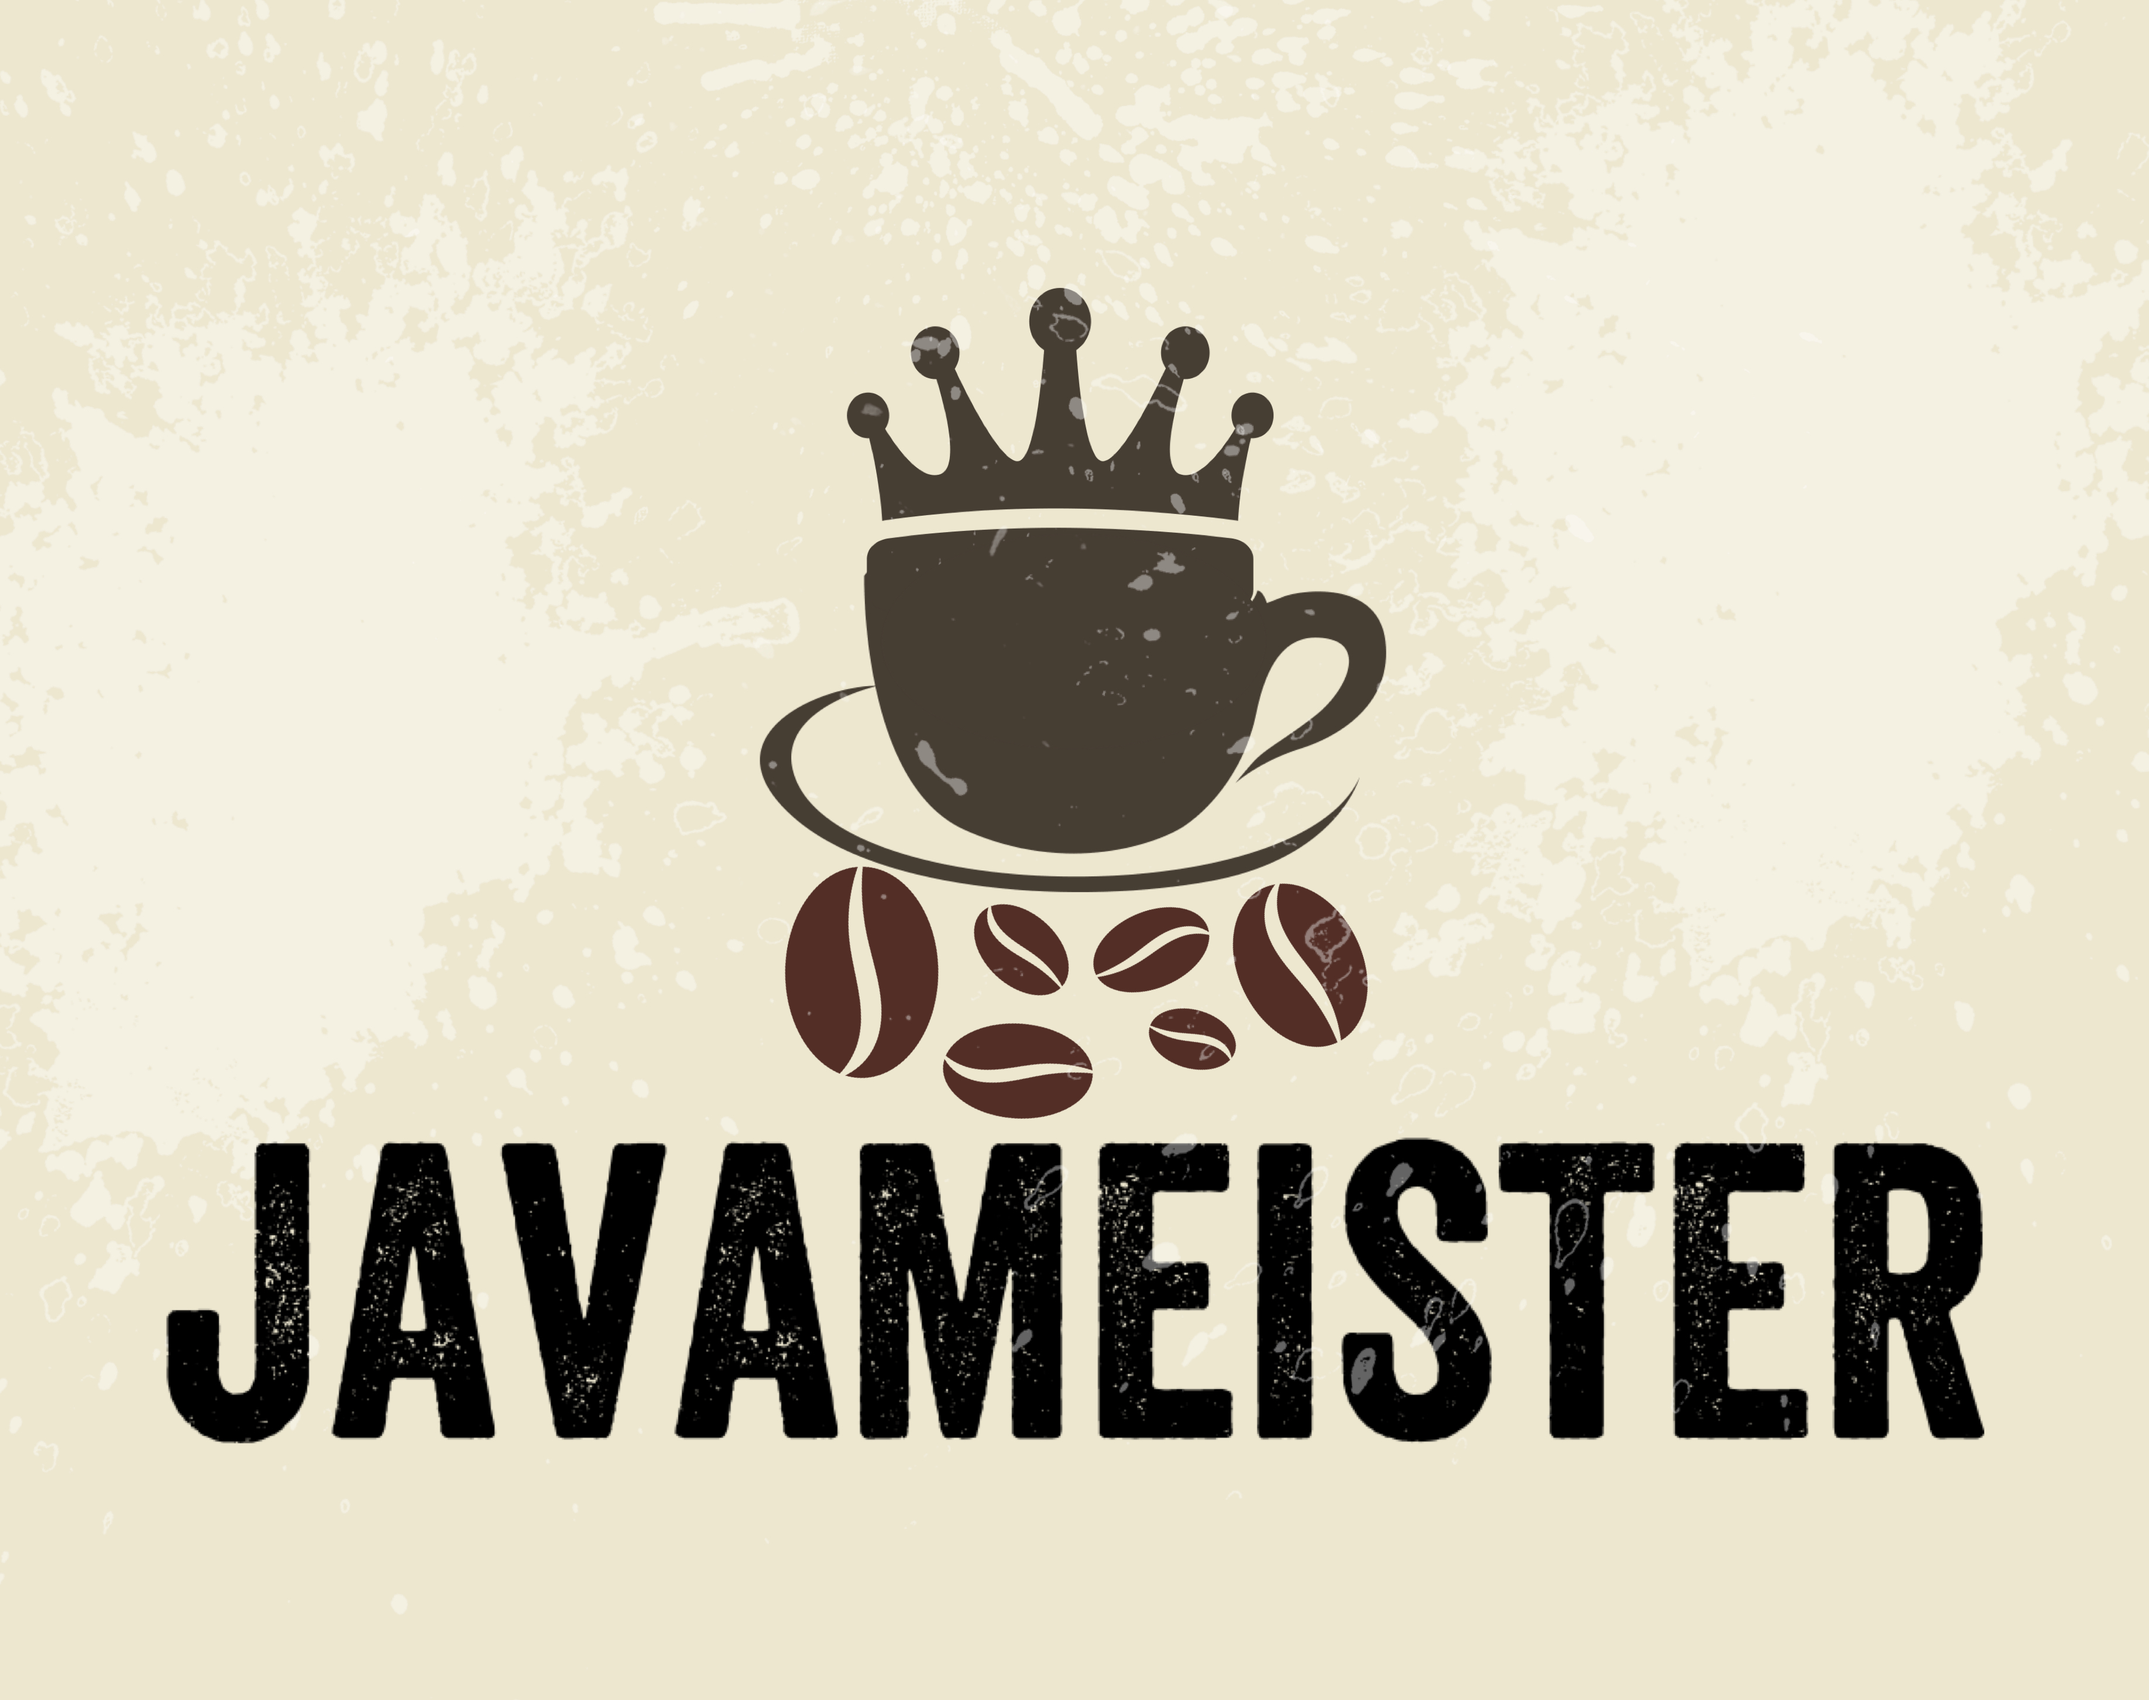
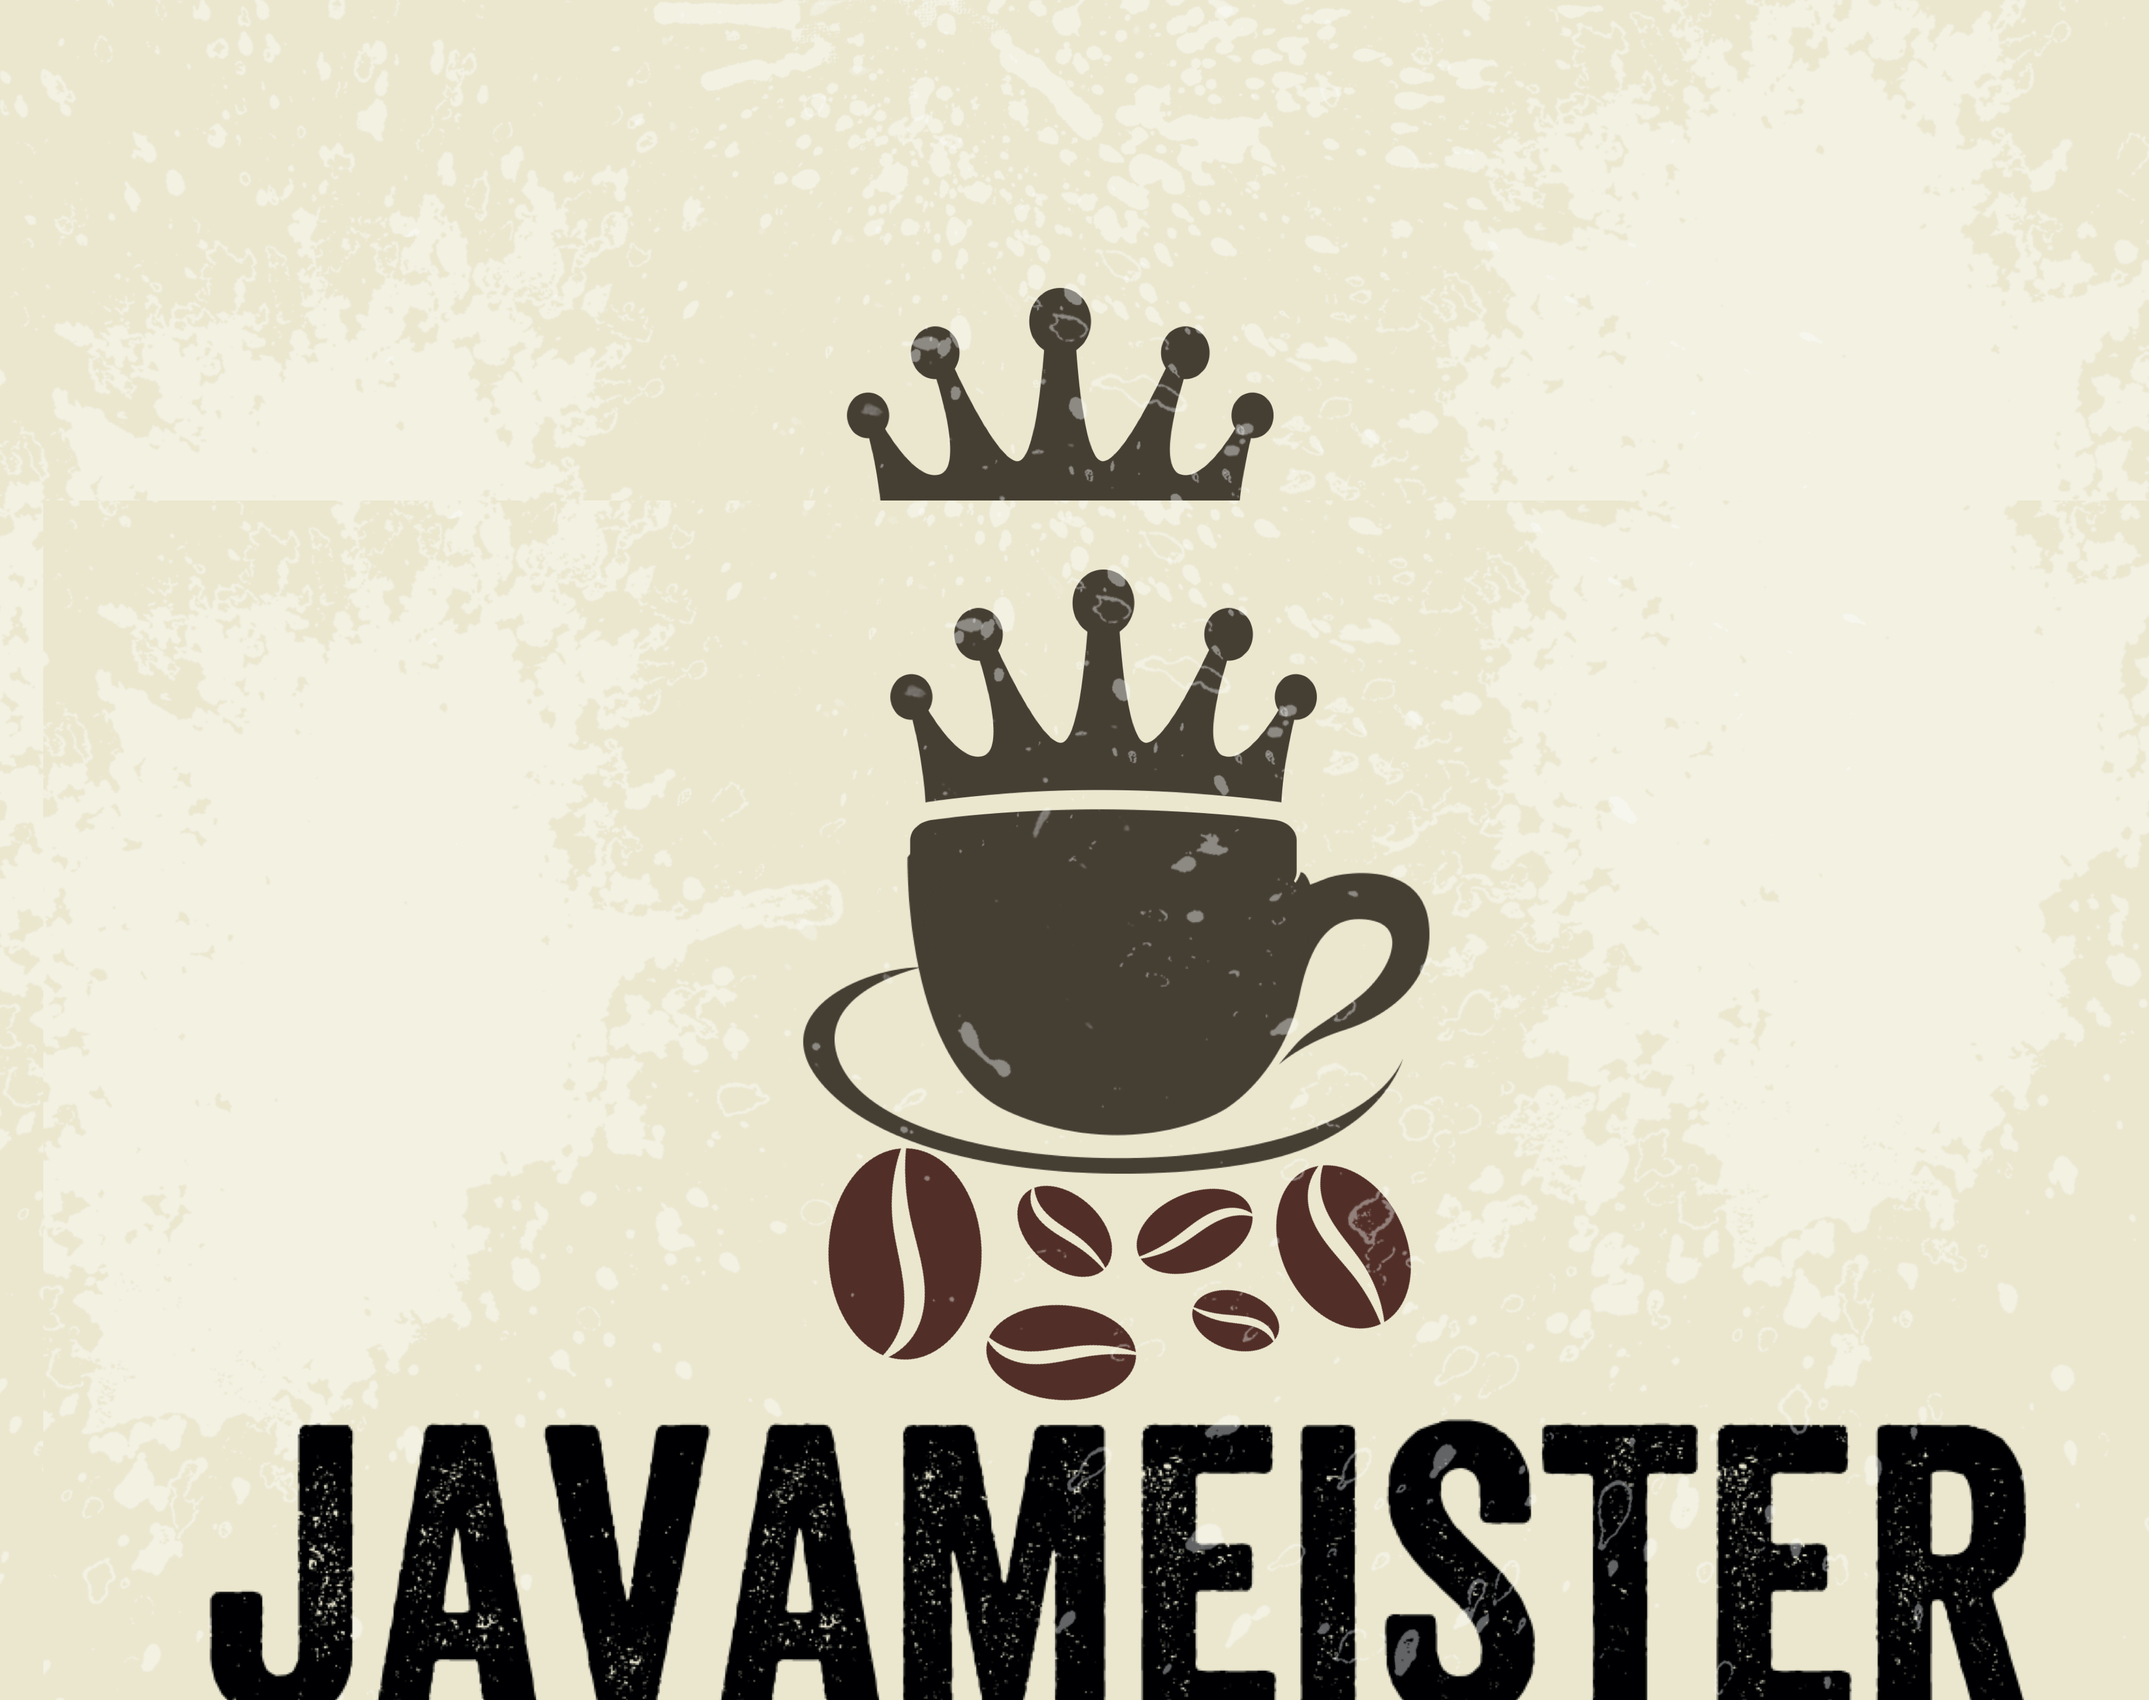
update

Changed region(s): [[0.0621, 0.2789, 0.9624, 1.0]]

diff --git a/week_5/hackathon/signup.html b/week_5/hackathon/signup.html
@@ -1,3 +1,10 @@
+
+
+
+
+<!-- SIGN UP PAGE IS WHERE CUSTOMERS NEED TO LOGIN OR SIGNUP
+ -->
+
 <!DOCTYPE html>
 <html>
 <head>
@@ -5,198 +12,18 @@
 	<link rel="stylesheet" href="./javam.css">
 </head>
 <body>
-<div class="header">
-  <h1></h1>
-  <p></p>
+	<div id="logo-container"><a href="javameisterfinal.jpg.png"><img src="javameisterfinal.jpg.png" alt="" /></a>
 </div>
 
 
 <!--	header menu -->
-<div class="topnav">
-  <a class="active" href="./javameister.html">Home</a>
-  <a href="#signup">Signup</a>
-  <a href="#news">News</a>
-  <a href="#store">Store</a>
-  <a href="myjava">
-<img border="0" alt="" src="shopping-basket.png" width="46" height="38">
-<span style="font-size: 40px">My Java</span>
-
-</div>
-
-<!-- Signup form code -->
-
-
-<style>
-body {font-family: Impact, fantasy; font-size: 35px; }
-* {box-sizing: border-box;}
-
-/* Full-width input fields */
-input[type=text], input[type=password] {
-  width: 100%;
-  padding: 15px;
-  margin: 5px 0 22px 0;
-  display: inline-block;
-  border: none;
-  background: #f1f1f1;
-}
-
-/* Add a background color when the inputs get focus */
-input[type=text]:focus, input[type=password]:focus {
-  background-color: #ddd;
-  outline: none;
-}
-
-/* Set a style for all buttons */
-button {
-   background-color: #008CBA;
-  border: none;
-  color: white;
-  padding: 15px 32px;
-  margin: 25px;
-  text-align: center;
-  text-decoration: none;
-  display: inline-block;
-  font-size: 16px;
-  cursor: pointer;
-  background-color: grey
-  border-radius 15px;
-  box-shadow: 0 9px #333;
-  border-radius: 17px;
-}
-
-
-
-button:hover {
-  opacity:1;
-}
-
-/* Extra styles for the cancel button */
-.cancelbtn {
-  padding: 14px 20px;
-  background-color: #f44336;
-}
-
-/* Float cancel and signup buttons and add an equal width */
-.cancelbtn, .signupbtn {
-  float: left;
-  width: 50%;
-}
-
-/* Add padding to container elements */
-.container {
-  padding: 16px;
-}
-
-/* The Modal (background) */
-.modal {
-  display: none; /* Hidden by default */
-  position: fixed; /* Stay in place */
-  z-index: 1; /* Sit on top */
-  left: 0;
-  top: 0;
-  width: 100%; /* Full width */
-  height: 100%; /* Full height */
-  overflow: auto; /* Enable scroll if needed */
-  background-color: #474e5d;
-  padding-top: 50px;
-}
-
-/* Modal Content/Box */
-.modal-content {
-  background-color: #fefefe;
-  margin: 5% auto 15% auto; /* 5% from the top, 15% from the bottom and centered */
-  border: 1px solid #888;
-  width: 80%; /* Could be more or less, depending on screen size */
-}
-
-/* Style the horizontal ruler */
-hr {
-  border: 1px solid #f1f1f1;
-  margin-bottom: 25px;
-}
- 
-/* The Close Button (x) */
-.close {
-  position: absolute;
-  right: 35px;
-  top: 15px;
-  font-size: 40px;
-  font-weight: bold;
-  color: #f1f1f1;
-}
-
-.close:hover,
-.close:focus {
-  color: #f44336;
-  cursor: pointer;
-}
-
-/* Clear floats */
-.clearfix::after {
-  content: "";
-  clear: both;
-  display: table;
-}
-
-/* Change styles for cancel button and signup button on extra small screens */
-@media screen and (max-width: 300px) {
-  .cancelbtn, .signupbtn {
-     width: 100%;
-  }
-}
-</style>
-<body>
-
-<h2>Modal Signup Form</h2>
-
-<button onclick="document.getElementById('id01').style.display='block'" style="width:auto;">Sign Up</button>
-
-<div id="id01" class="modal">
-  <span onclick="document.getElementById('id01').style.display='none'" class="close" title="Close Modal">&times;</span>
-  <form class="modal-content" action="/action_page.php">
-    <div class="container">
-      <h1>Sign Up</h1>
-      <p>Please fill in this form to create an account.</p>
-      <hr>
-      <label for="email"><b>Email</b></label>
-      <input type="text" placeholder="Enter Email" name="email" required>
-
-      <label for="psw"><b>Password</b></label>
-      <input type="password" placeholder="Enter Password" name="psw" required>
-
-      <label for="psw-repeat"><b>Repeat Password</b></label>
-      <input type="password" placeholder="Repeat Password" name="psw-repeat" required>
-      
-      <label>
-        <input type="checkbox" checked="checked" name="remember" style="margin-bottom:15px"> Remember me
-      </label>
-
-      <p>By creating an account you agree to our <a href="#" style="color:dodgerblue">Terms & Privacy</a>.</p>
-
-      <div class="clearfix">
-        <button type="button" onclick="document.getElementById('id01').style.display='none'" class="cancelbtn">Cancel</button>
-        <button type="submit" class="signupbtn">Sign Up</button>
-      </div>
-    </div>
-  </form>
-</div>
-
-<script>
-// Get the modal
-var modal = document.getElementById('id01');
-
-// When the user clicks anywhere outside of the modal, close it
-window.onclick = function(event) {
-  if (event.target == modal) {
-    modal.style.display = "none";
-  }
-}
-</script>
-
+	<div class="topnav">
+	  <a href="./javameister.html">Home</a>
+	  <a class="active" href="#signup">Signup</a>
+	  <a href="#news">News</a>
+	  <a href="#store">Store</a>
+	  <a href="myjava.html">My Java</a>
+	</div>
 </body>
 </html>
 
-
-
-</body>
-</html>

diff --git a/week_5/hackathon/myjava.html b/week_5/hackathon/myjava.html
@@ -1,0 +1,50 @@
+
+
+
+<!-- MY JAVA PAGE IS WHERE THE PERSONALITY QUIZ IS LOCATED THAT MATCHES CUSTOMERS 
+WITH THEIR IDEAL COFFEE -->
+
+<!DOCTYPE html>
+<html>
+<head>
+	<title>signup page</title>
+	<link rel="stylesheet" href="./javam.css">
+</head>
+<body>
+	<div id="logo-container"><a href="javameisterfinal.jpg.png"><img src="javameisterfinal.jpg.png" alt="" /></a>
+</div>
+
+
+<!--	header menu -->
+	<div class="topnav">
+	  <a href="./javameister.html">Home</a>
+	  <a href="./signup.html">Signup</a>
+	  <a href="#news">News</a>
+	  <a href="#store">Store</a>
+	  <a class="active" href="myjava.html">My Java</a>
+	</div>
+
+
+<script>
+	var questions = [
+	 { 
+	 	prompt: "What kind of chocolate do you like? \n(1) white \n (2) milk \n (3) dark \n (4) varies/all the above", 
+
+	 },
+	 { 
+	 	prompt: "What kind of fruit do you prefer? \n(1) apples, berries, citrus \n (2) peaches, plums, apricots \n (3) tropical fruits like mango, papaya, kiwi \n (4) varies/all the above", 
+
+	 },
+	 {
+	 	prompt: "When is your favorite time to drink coffee? \n(1) first thing in the morning \n (2) with friends or with food \n (3) all day everyday \n (4) depends on the day",
+	 },
+	 {
+	 	prompt: "When you go to a restaurant, do you... \n(1) choose somehting that you know will be delicious? \n (2 choose the restaurants specialty? \n (3) ask the server for a recommendation? \n (4) choose something interesting and new?",
+	 },
+	]
+
+
+</script>
+</body>
+</html>
+

diff --git a/week_5/hackathon/javameister.html b/week_5/hackathon/javameister.html
@@ -6,9 +6,9 @@
 </head>
 <body>
 
-<div class="header">
-  <h1></h1>
-  <p></p>
+
+<div id="logo-container"><a href="javameisterfinal.jpg.png"><img src="javameisterfinal.jpg.png" alt="" /></a>
+
 </div>
 
 
@@ -18,9 +18,7 @@
   <a href="./signup.html">Signup</a>
   <a href="#news">News</a>
   <a href="#store">Store</a>
-  <a href="myjava">
-<img border="0" alt="" src="shopping-basket.png" width="46" height="38">
-<span style="font-size: 40px">My Java</span>
+  <a href="./myjava.html">My Java</a>
 
 </div>
 

diff --git a/week_5/hackathon/javam.css b/week_5/hackathon/javam.css
@@ -1,10 +1,7 @@
-/* Header*/
-  .header {
-  background: url(javameister1.jpg) no-repeat center;
-  background-size: cover;
-  height:550px;
-  position: relative;
 
+#logo-container img {
+   width: 100%;
+   height: auto;
 }
 
 body {
